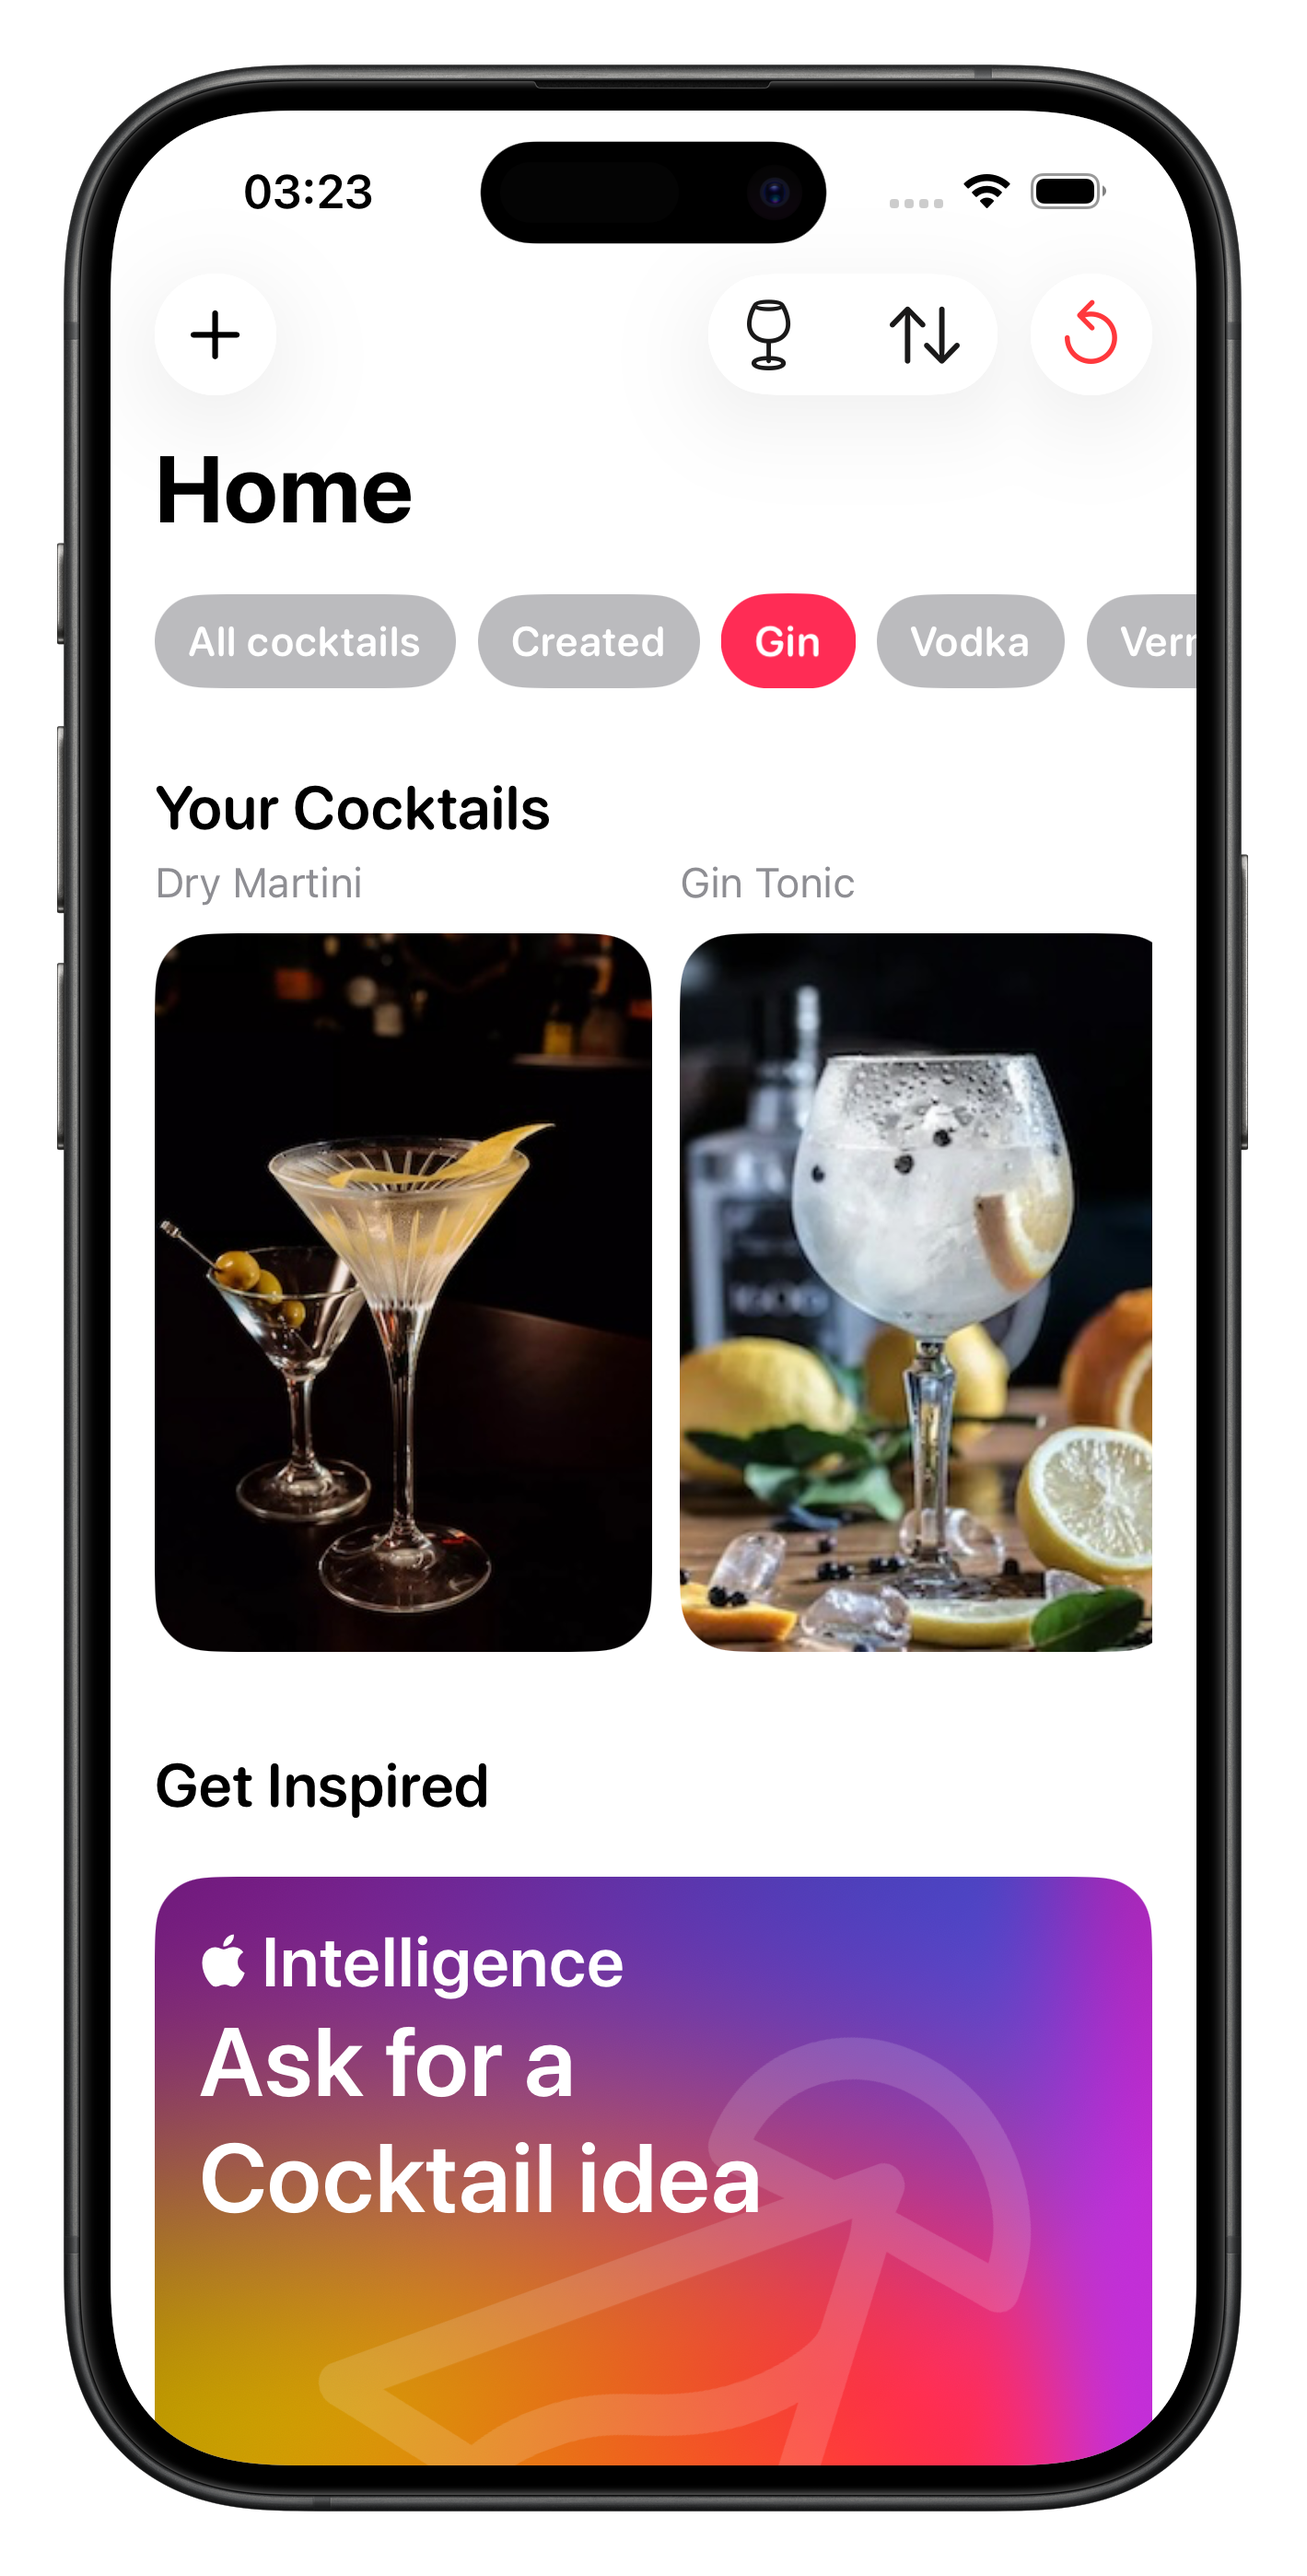
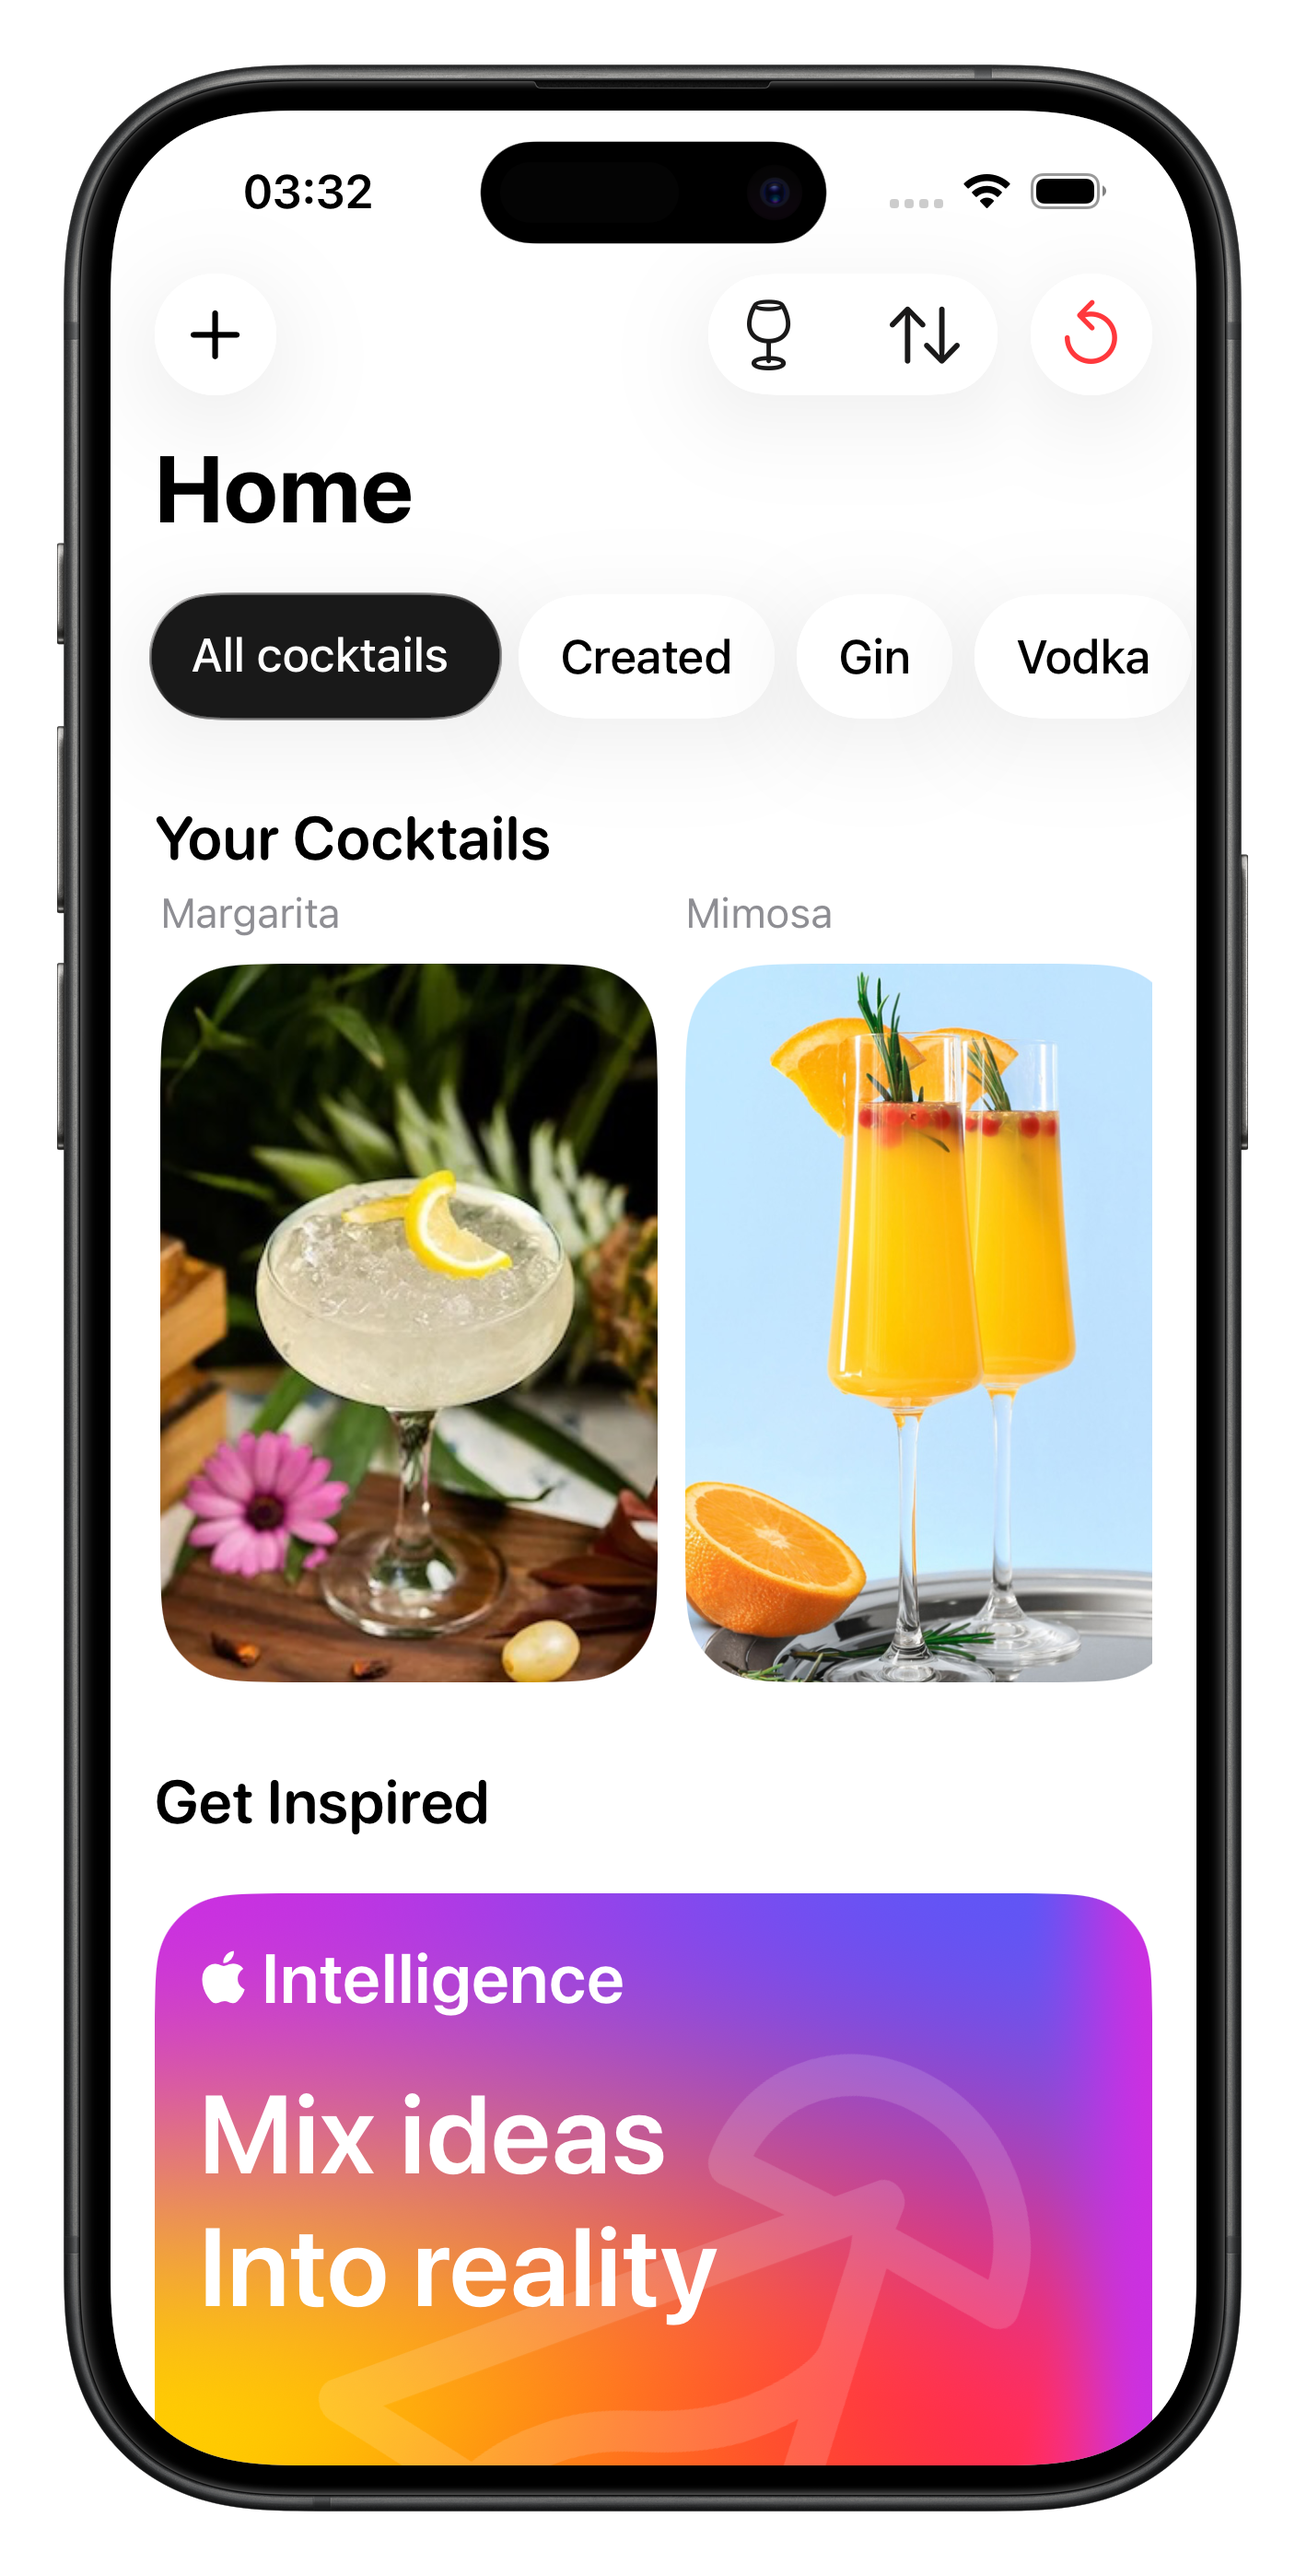
Update README screenshots with new images

diff --git a/README.md b/README.md
@@ -317,15 +317,16 @@ func mapLanguageError() -> LanguageError? {
 
 <p>
   <img src="screenshots/swipegrenadine.png" width="300" alt="Ingredient Swiping Interface">
-  <img src="screenshots/detail.png" width="300" alt="Cocktail Detail View">
+  <img src="screenshots/cocktaildetail.png" width="300" alt="Cocktail Detail View">
 </p>
 
 <p>
   <img src="screenshots/homepage.png" width="300" alt="Personal Cocktail Library">
-  <img src="screenshots/createcocktail.png" width="300" alt="Cocktail Creation Interface">
+  <img src="screenshots/homepagedark.png" width="300" alt="Personal Cocktail Library Dark Mode">
 </p>
 
 <p>
+  <img src="screenshots/createcocktail.png" width="300" alt="Cocktail Creation Interface">
   <img src="screenshots/createingredients.png" width="300" alt="Ingredient Creation Screen">
 </p>
 
